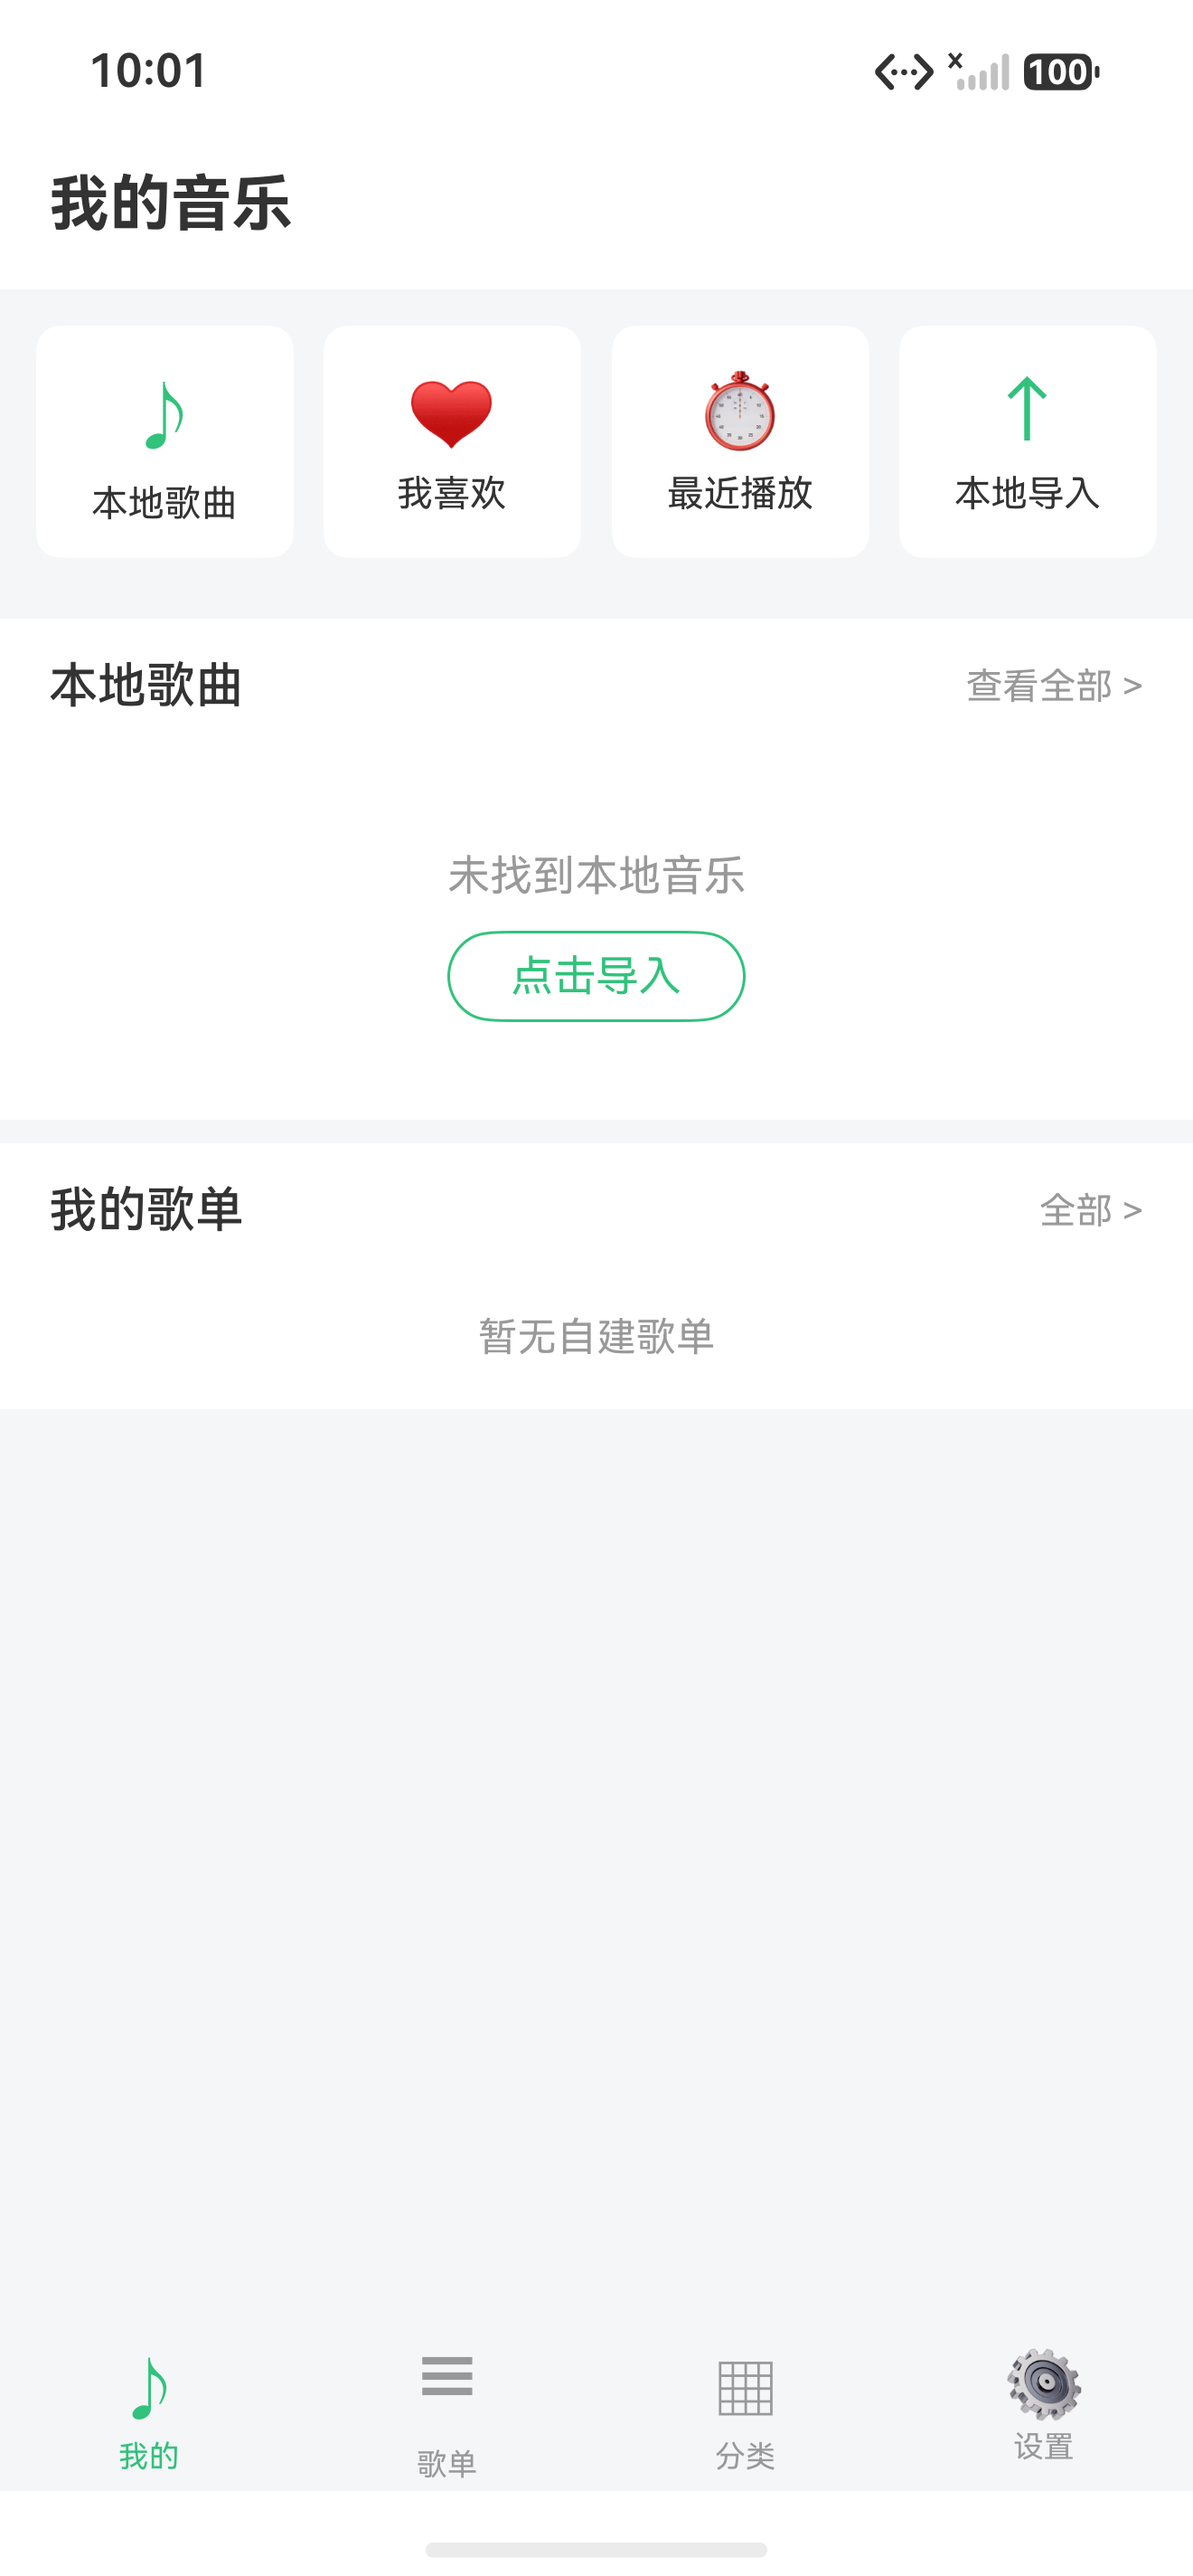
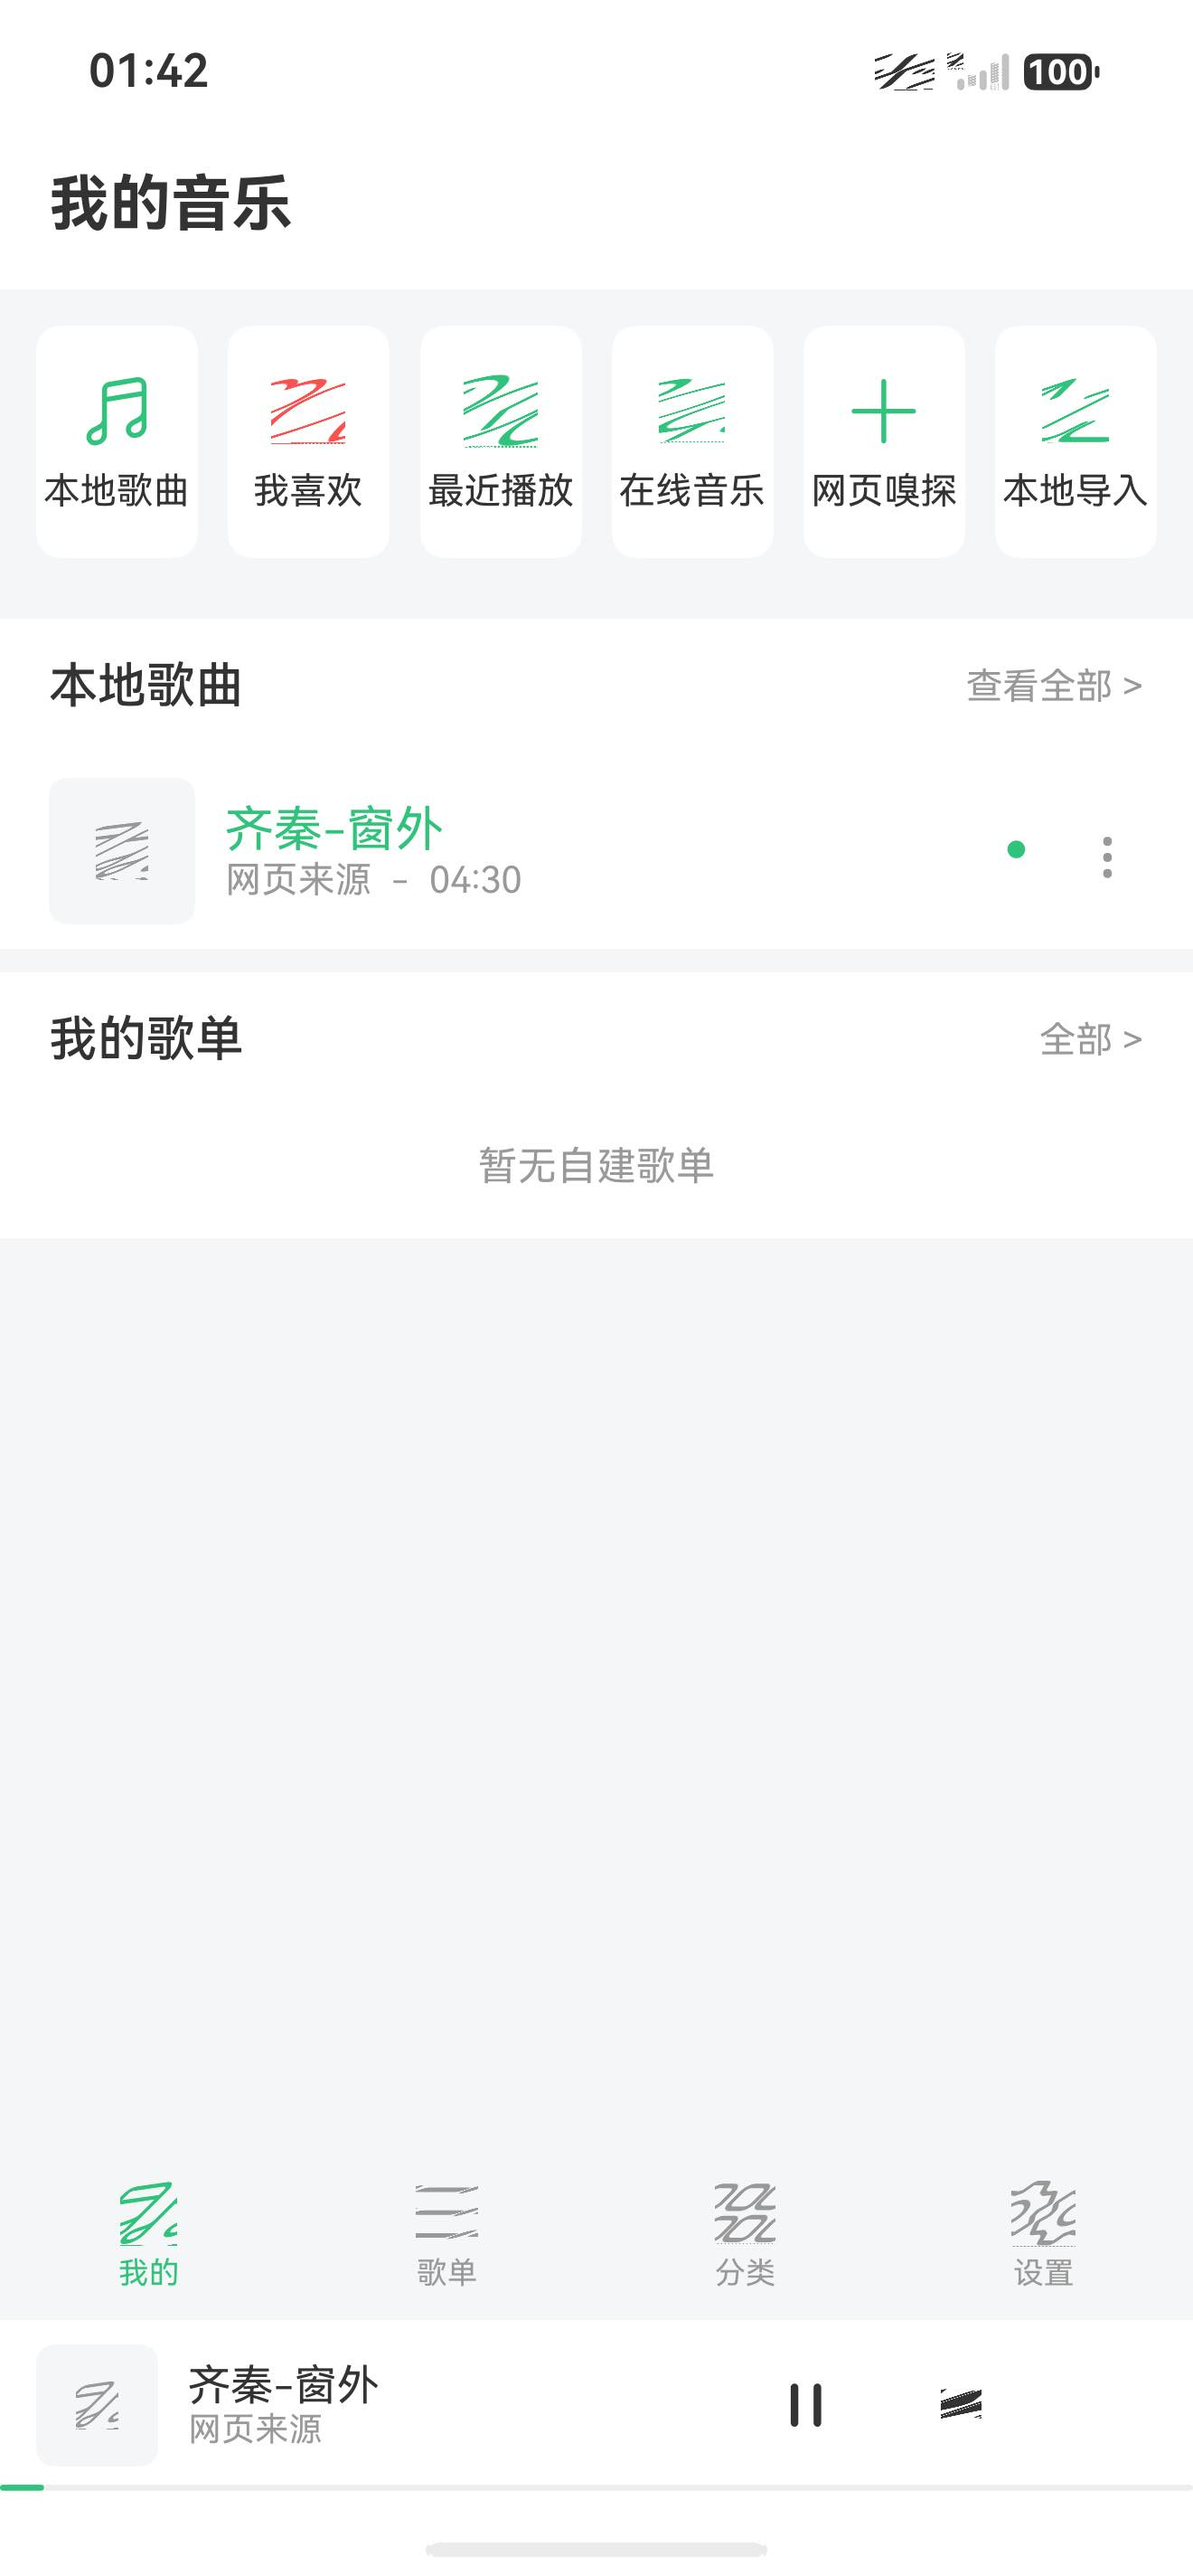
docs: 更新 App 截图

diff --git a/README.md b/README.md
@@ -5,7 +5,7 @@
 知音（英文 Zing）是使用 ArkTS 开发的鸿蒙原生音乐应用，以「本地播放」为核心，同时提供合规的在线曲库接入和通用学习用途的网页资源嗅探能力。界面采用扁平、简洁的设计风格，整体色调统一。
 
 <p align="center">
-  <img src="screenshots/zing_home.png" width="320" alt="知音 App 首页截图">
+  <img src="screenshots/home.png" width="320" alt="知音 App 首页截图">
 </p>
 
 ## 功能特性
